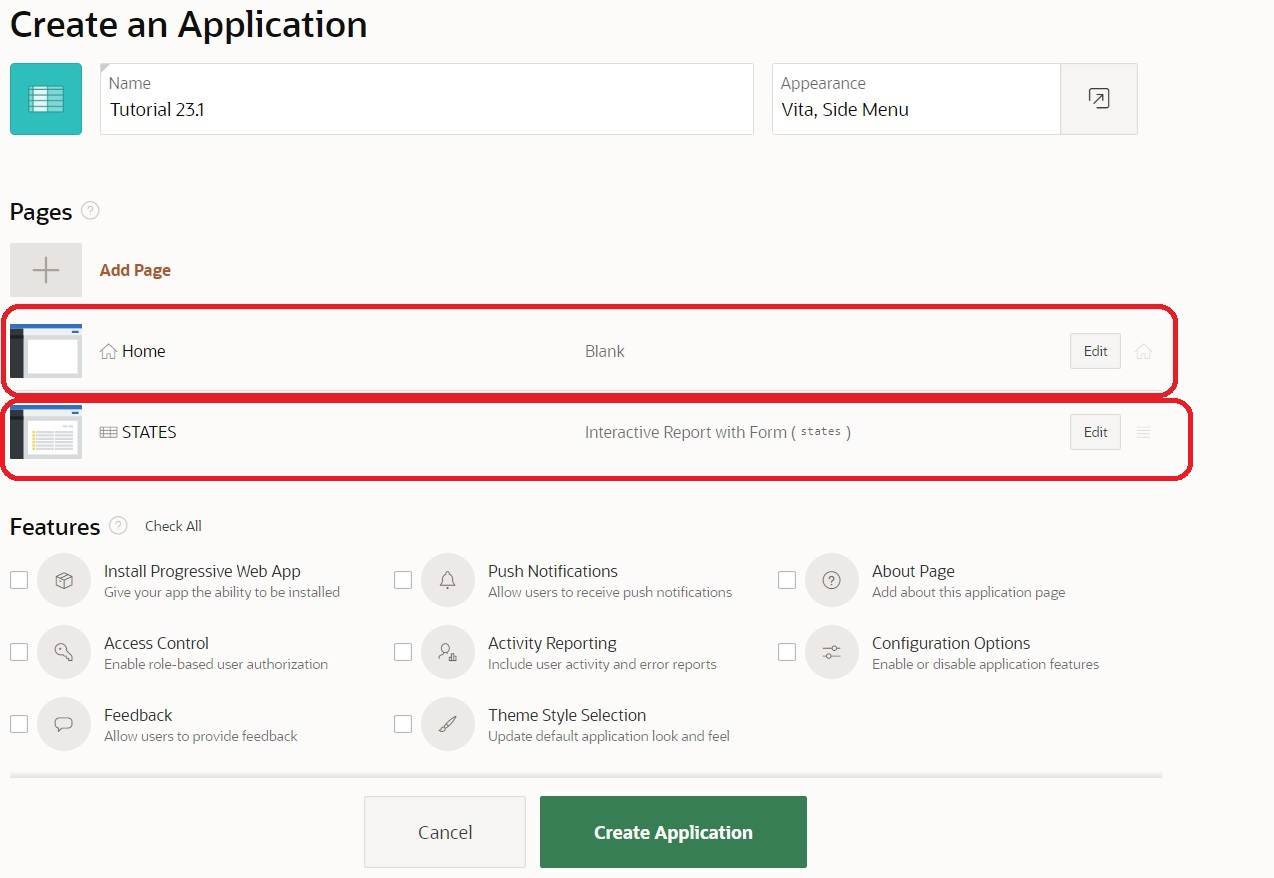
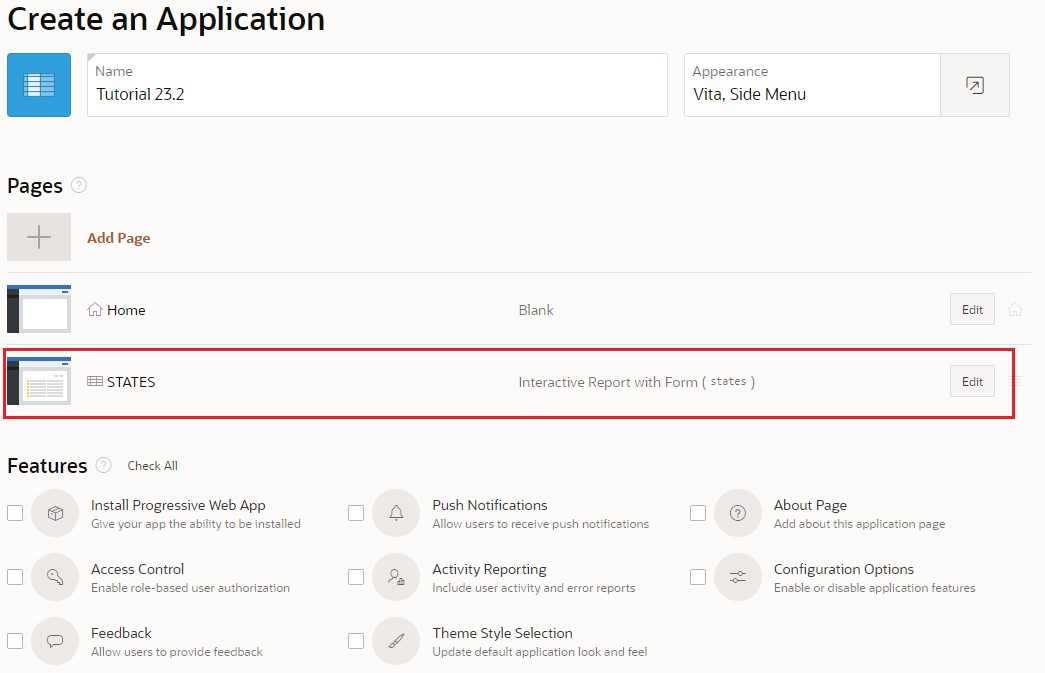
APEX 23.2 Aktualisierung Kapitel 1 & 2

diff --git a/docs/Kapitel-02/Kapitel-02 - App erstellen.md b/docs/Kapitel-02/Kapitel-02 - App erstellen.md
@@ -6,15 +6,15 @@ In diesem Kapitel wird das Grundgerüst der Anwendung und die erste Seite erstel
 
 ## 2.1. Erstellen einer Anwendung
 
-- Für die weiteren Aufgaben muss zunächst eine **Anwendung** erstellt werden. Öffnen Sie hierzu als erstes den **App Builder** und klicken Sie auf den Button **Create**. Der App Builder zeigt alle installierten Anwendungen an.
+- Für die weiteren Aufgaben muss zunächst eine **Anwendung** erstellt werden. Öffnen Sie hierzu als erstes den **App Builder**. Der App Builder zeigt alle installierten Anwendungen an. Klicken Sie nun auf den Button **Create**.
 
 ![](../../assets/Kapitel-02/Open_Create_App_Wizard.jpg)
 
-- Der Assistent zur Erstellung von Anwendungen wird gestartet. Klicken Sie auf New Application, um eine neue Anwendung zu erstellen.
+- Der Assistent zur Erstellung von Anwendungen wird gestartet. Klicken Sie auf Use Create App Wizard, um den Assistenten für eine neue Anwendung zu öffnen.
 
 ![](../../assets/Kapitel-02/Create_App_Wizard_1.jpg)
 
-- Geben Sie jetzt den Namen der Anwendung ein (z.B. Tutorial 23.1).
+- Geben Sie jetzt den Namen der Anwendung ein (z.B. Tutorial 23.2).
 
 ![](../../assets/Kapitel-02/Create_App_Wizard_2.jpg)
 

diff --git a/docs/Kapitel-01/Kapitel-01 - Daten importieren.md b/docs/Kapitel-01/Kapitel-01 - Daten importieren.md
@@ -1,6 +1,6 @@
 # Vorbereitung
 
-Herzlich Willkommen bei dem Workshop „Hands-On APEX 23.1“ der MT - IT Solutions.
+Herzlich Willkommen bei dem Workshop „Hands-On APEX 23.2“ der MT - IT Solutions.
 Bevor Sie mit der Bearbeitung dieses Tutorials beginnen können, müssen Sie einen Workspace auf den Servern von Oracle beantragen. Dies können Sie innerhalb weniger Minuten unter [apex.oracle.com](apex.oracle.com) erledigen.
 
 Falls Sie die Möglichkeit nutzen möchten, englischsprachige Tutorials zu bearbeiten, gibt es unter dem folgenden Link die Möglichkeit, dies zu tun. Klicken Sie einfach auf [https://apex.oracle.com/en/learn/tutorials/](https://apex.oracle.com/en/learn/tutorials/) und bearbeiten Sie die von APEX bereitgestellten Tutorials, wenn Sie noch einen größeren Einblick in die Welt von APEX erhalten möchten.  
